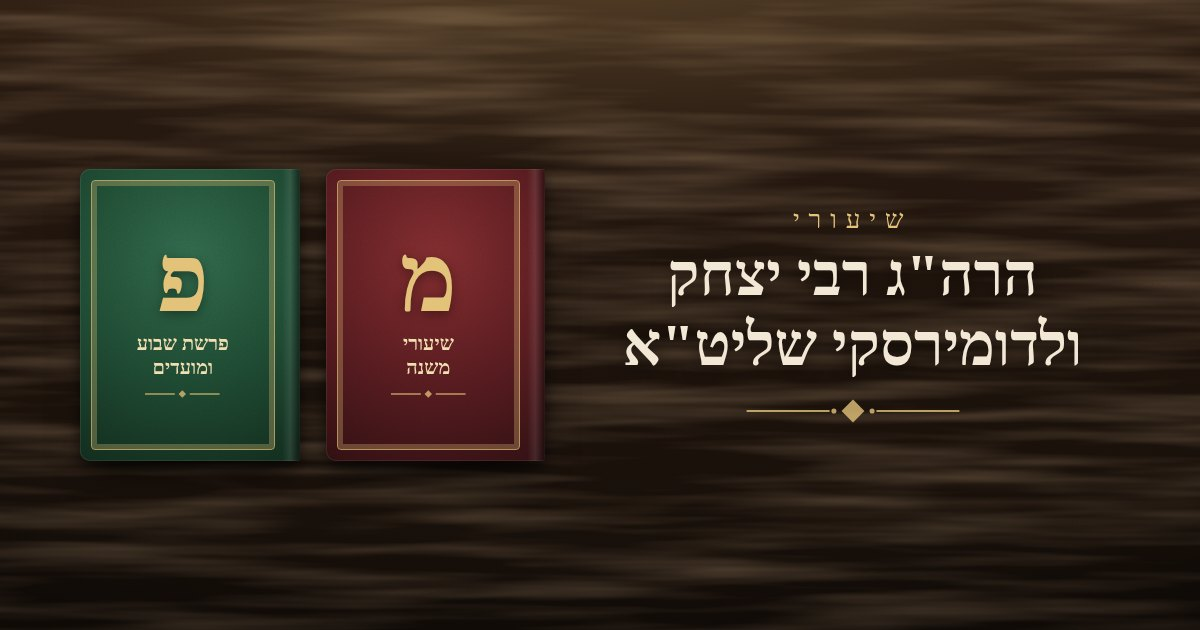
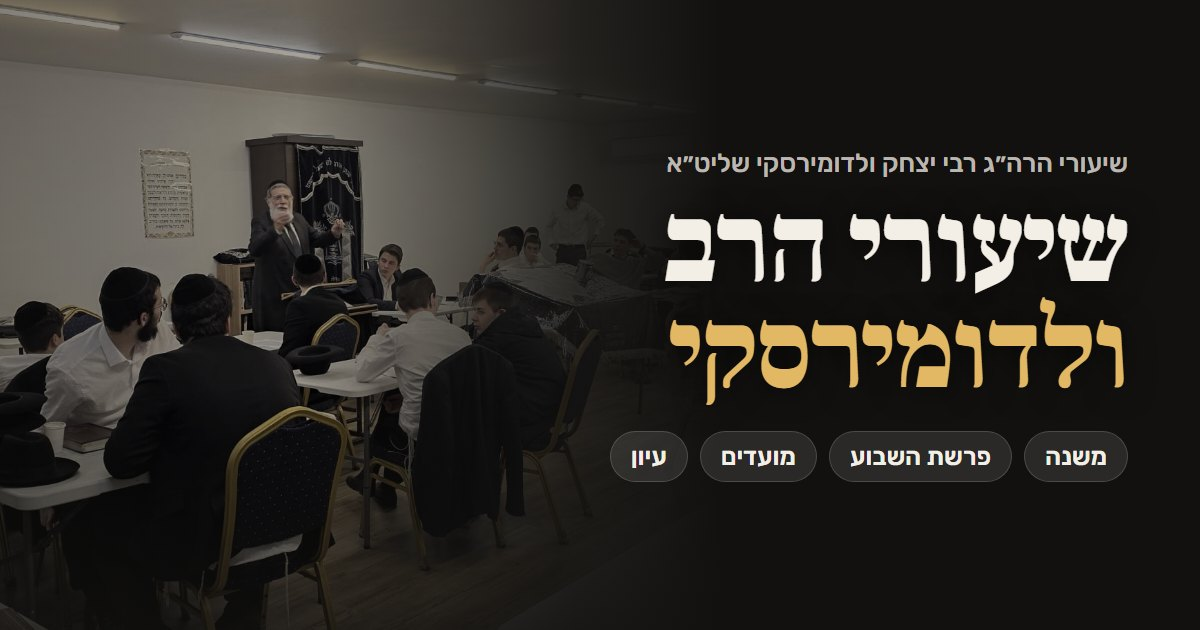
תמונת שיתוף חדשה בסגנון האתר (og.jpg?v=2)
הצילום של הרב, "שיעורי הרב ולדומירסקי" וארבעת התחומים, במקום שני
הספרים של השער הישן. ?v=2 כדי שוואטסאפ/פייסבוק יטענו מחדש.

diff --git a/index.html b/index.html
@@ -11,7 +11,9 @@
 <meta property="og:title" content='שיעורי הרה"ג רבי יצחק ולדומירסקי שליט"א'>
 <meta property="og:description" content="שיעורי משנה יומיים ושיעורי פרשת שבוע ומועדים.">
 <meta property="og:url" content="https://danvlado1234-sketch.github.io/">
-<meta property="og:image" content="https://danvlado1234-sketch.github.io/og.jpg">
+<meta property="og:image" content="https://danvlado1234-sketch.github.io/og.jpg?v=2">
+<meta property="og:image:width" content="1200">
+<meta property="og:image:height" content="630">
 <meta name="twitter:card" content="summary_large_image">
 <script type="application/ld+json">
 {
